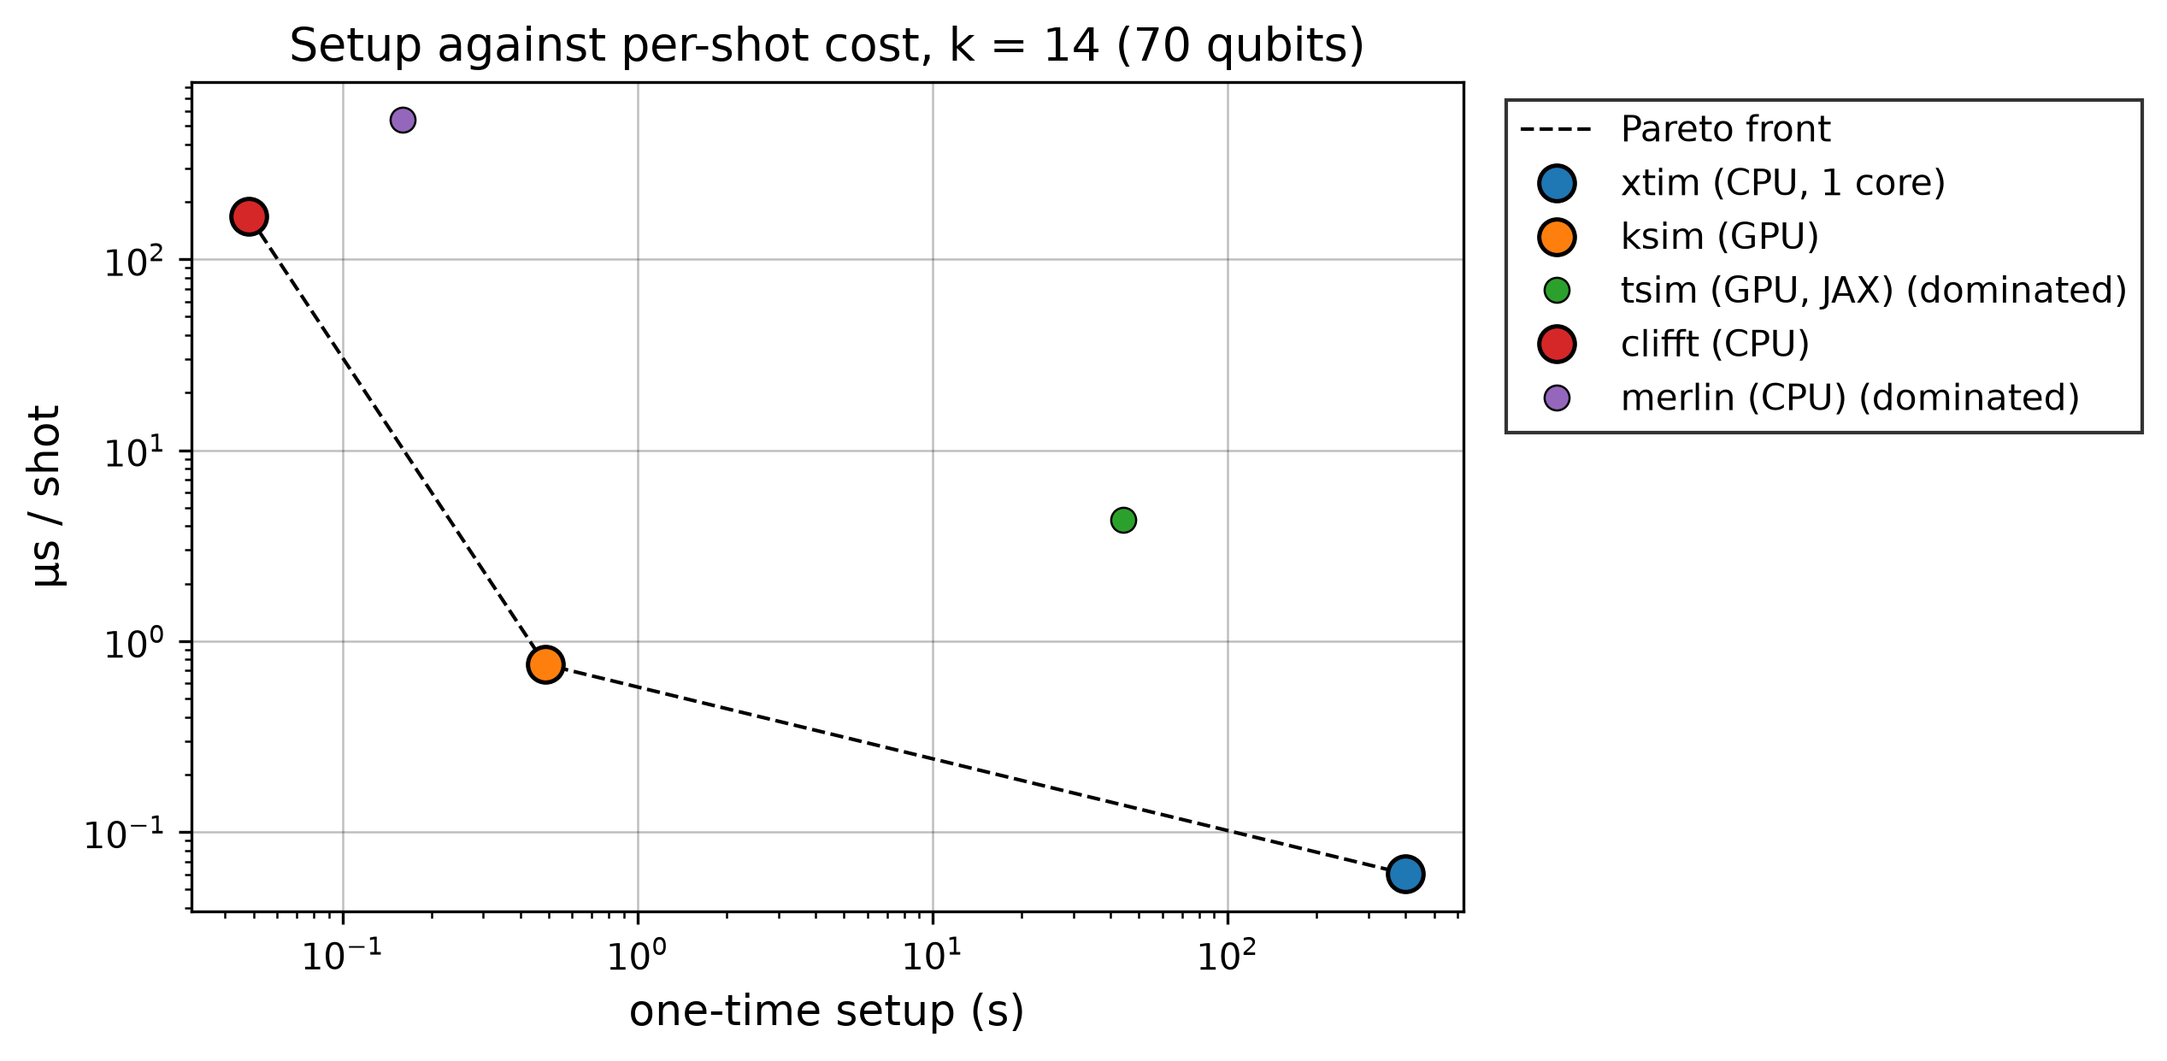
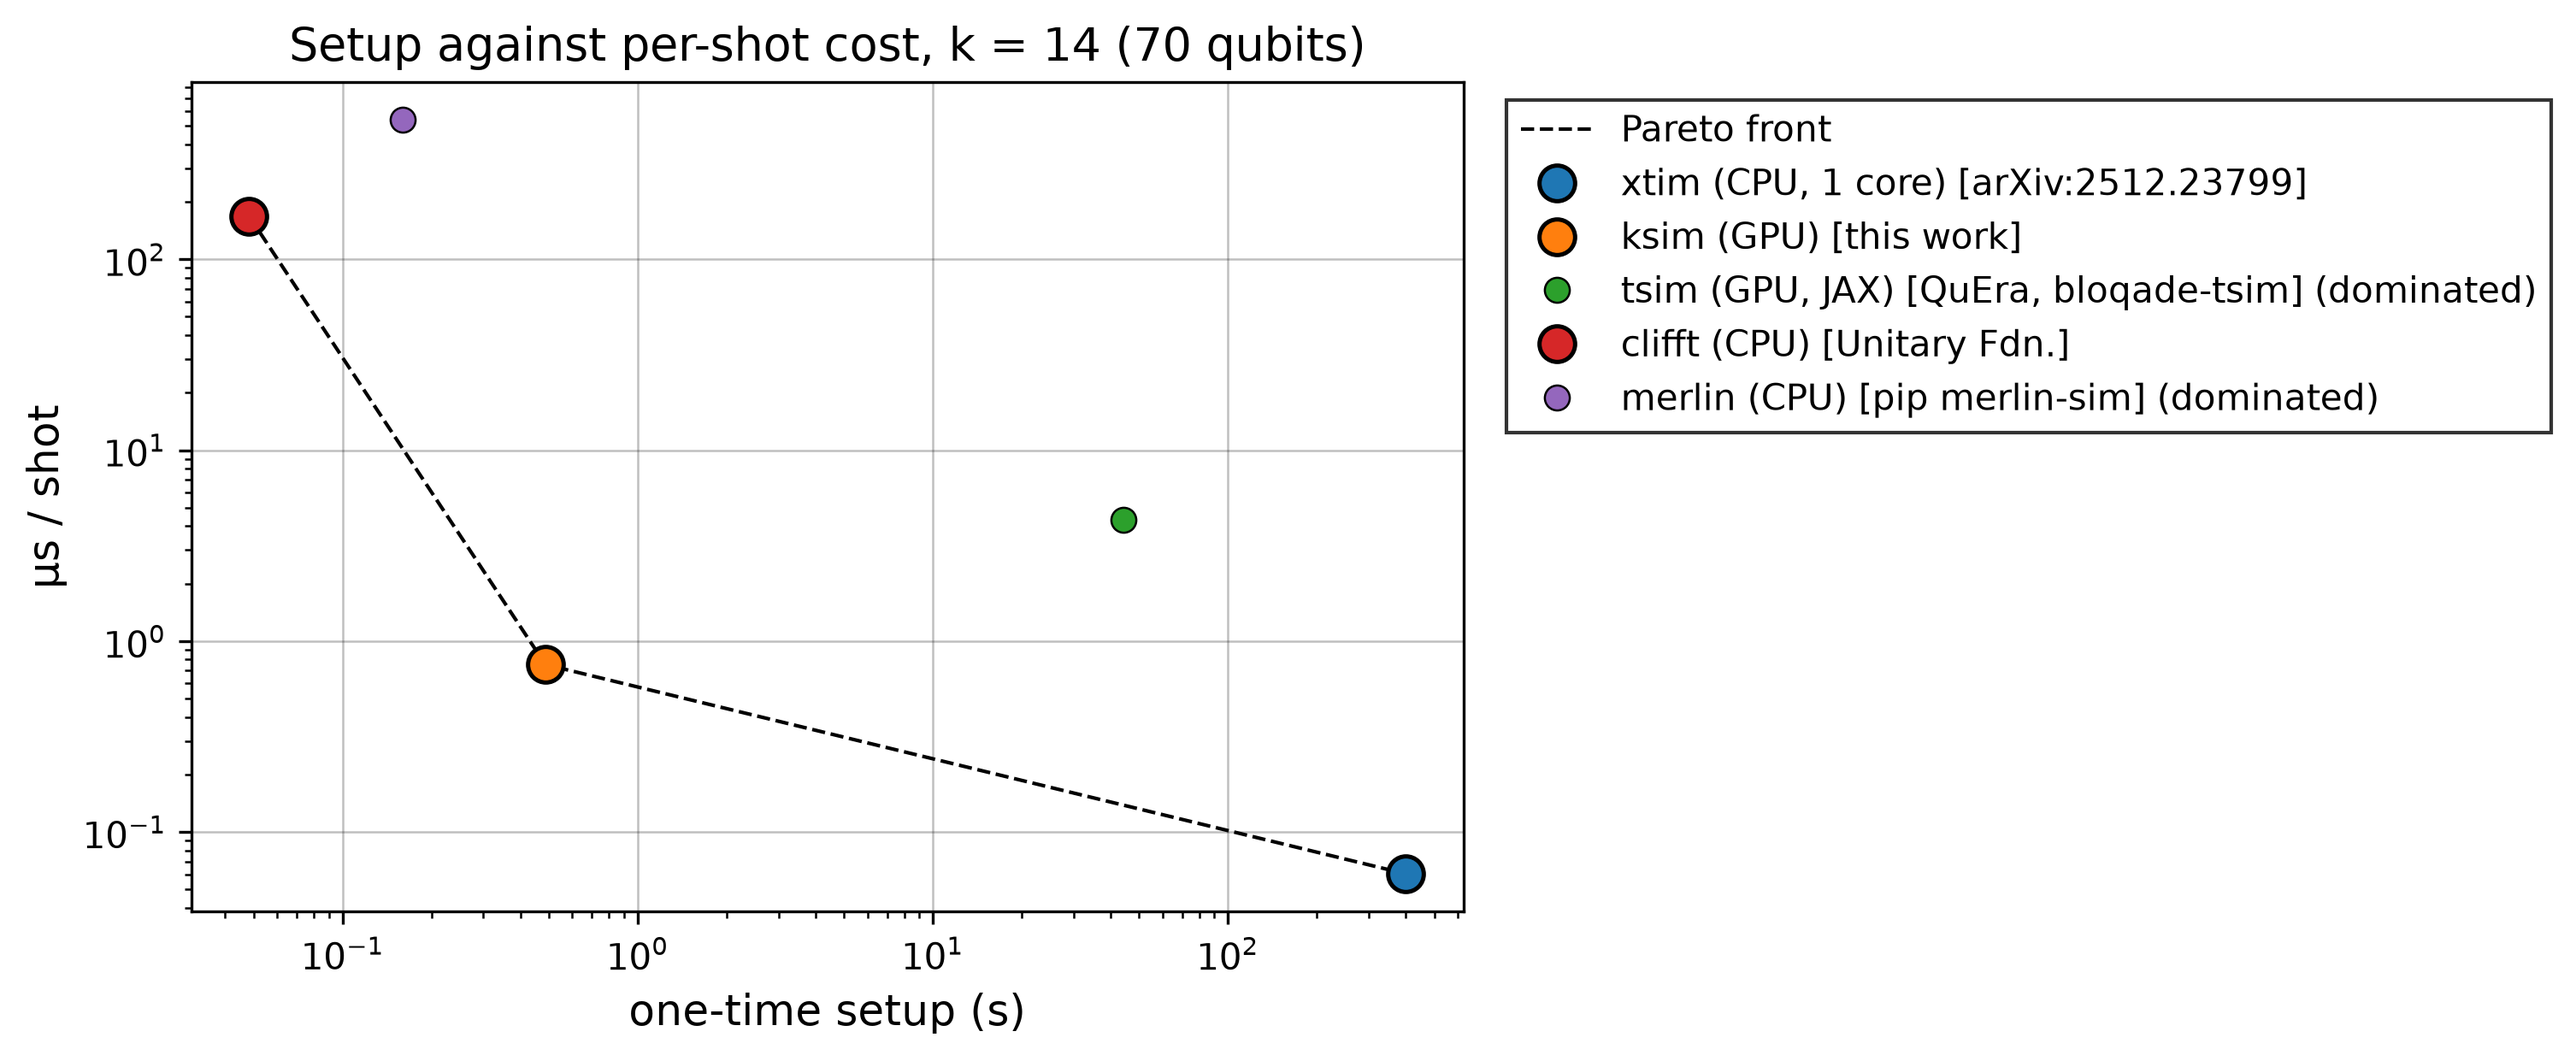
plot_scaling: short engine references in the legends

diff --git a/benchmarks/plot_scaling.py b/benchmarks/plot_scaling.py
@@ -25,7 +25,7 @@ Run:
 
 Definitions
 -----------
-COLOURS, LABELS    Per engine: colour, and the label with its device.
+COLOURS, LABELS    Per engine: colour, and the label with its device and short reference.
 SHOT_COUNTS        The N of the total-time figure.
 WALL_SHOTS         The N of the single-budget wall-time figure.
 frame              A large framed axes with title and labels, log y.
@@ -44,8 +44,11 @@ import matplotlib.pyplot as plt
 
 COLOURS = {"xtim": "#1f77b4", "ksim": "#ff7f0e", "tsim": "#2ca02c",
            "clifft": "#d62728", "merlin": "#9467bd"}
-LABELS = {"xtim": "xtim (CPU, 1 core)", "ksim": "ksim (GPU)", "tsim": "tsim (GPU, JAX)",
-          "clifft": "clifft (CPU)", "merlin": "merlin (CPU)"}
+LABELS = {"xtim": "xtim (CPU, 1 core) [arXiv:2512.23799]",
+          "ksim": "ksim (GPU) [this work]",
+          "tsim": "tsim (GPU, JAX) [QuEra, bloqade-tsim]",
+          "clifft": "clifft (CPU) [Unitary Fdn.]",
+          "merlin": "merlin (CPU) [pip merlin-sim]"}
 SHOT_COUNTS = ((10**6, "-"), (10**8, ":"))
 WALL_SHOTS = 10**6
 POINT = dict(marker="o", ms=6, mec="black", mew=0.6, lw=1.5)
